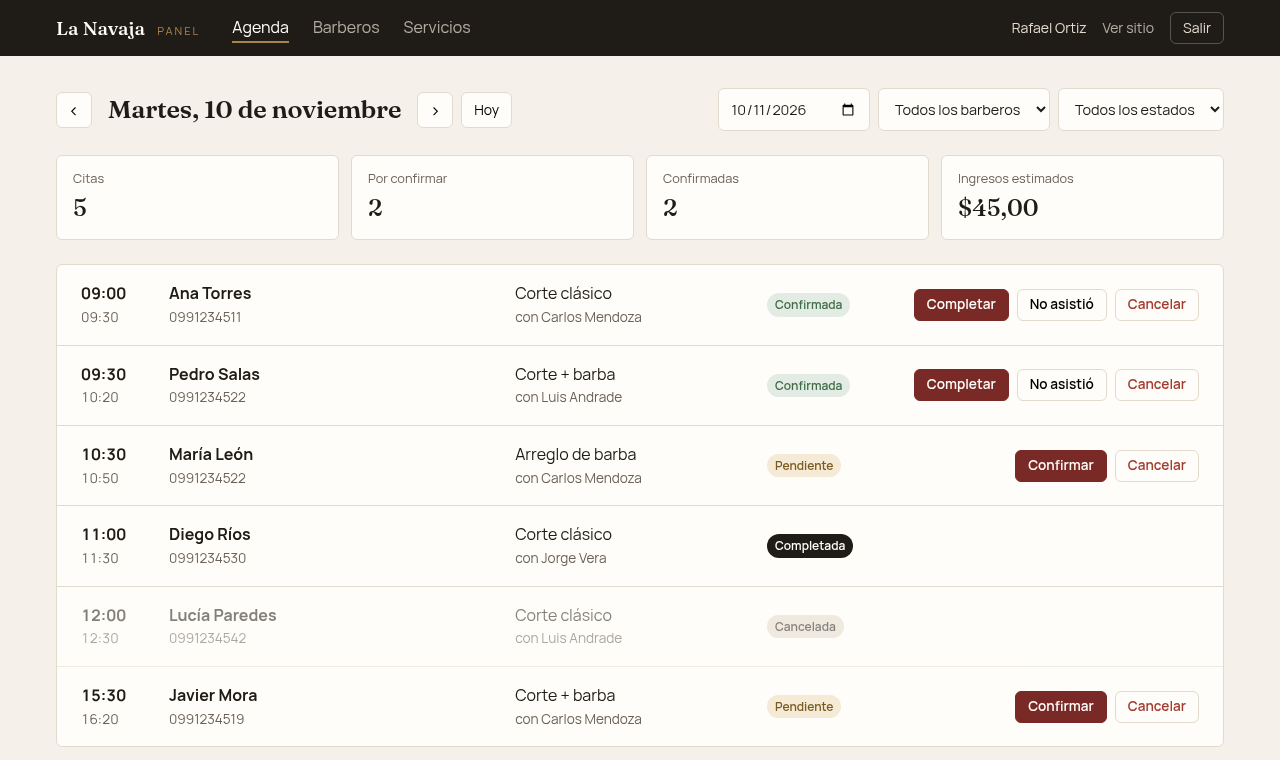
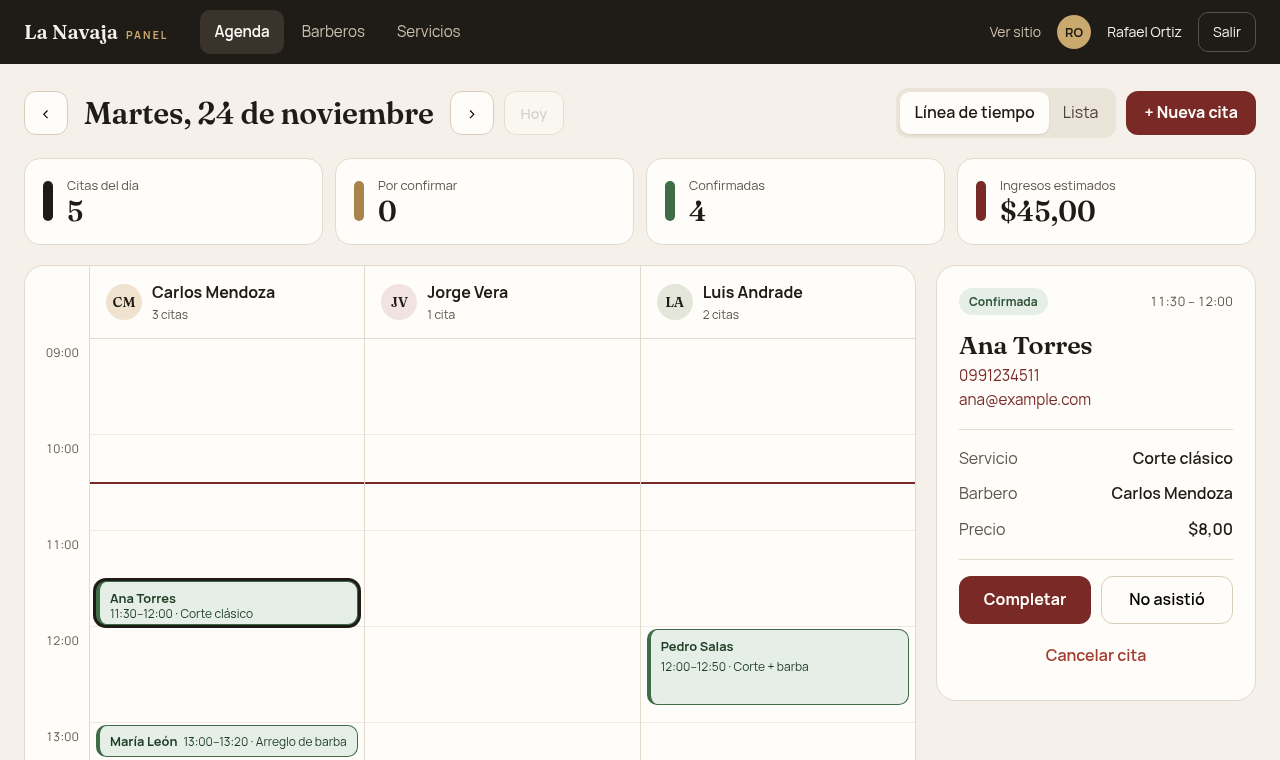
docs: update agenda screenshot and feature description

diff --git a/README.md b/README.md
@@ -30,7 +30,7 @@ agenda, the team and the schedule from an admin panel.
 **For the barbershop**
 
 - Admin panel with secure login (JWT, Argon2 password hashing)
-- Daily agenda with filters, a summary of the day and one-click status changes
+- Daily agenda as a per-barber timeline (or list), day stats and a detail panel with status actions
 - Manage barbers, services and each barber's weekly schedule
 
 **Under the hood**
